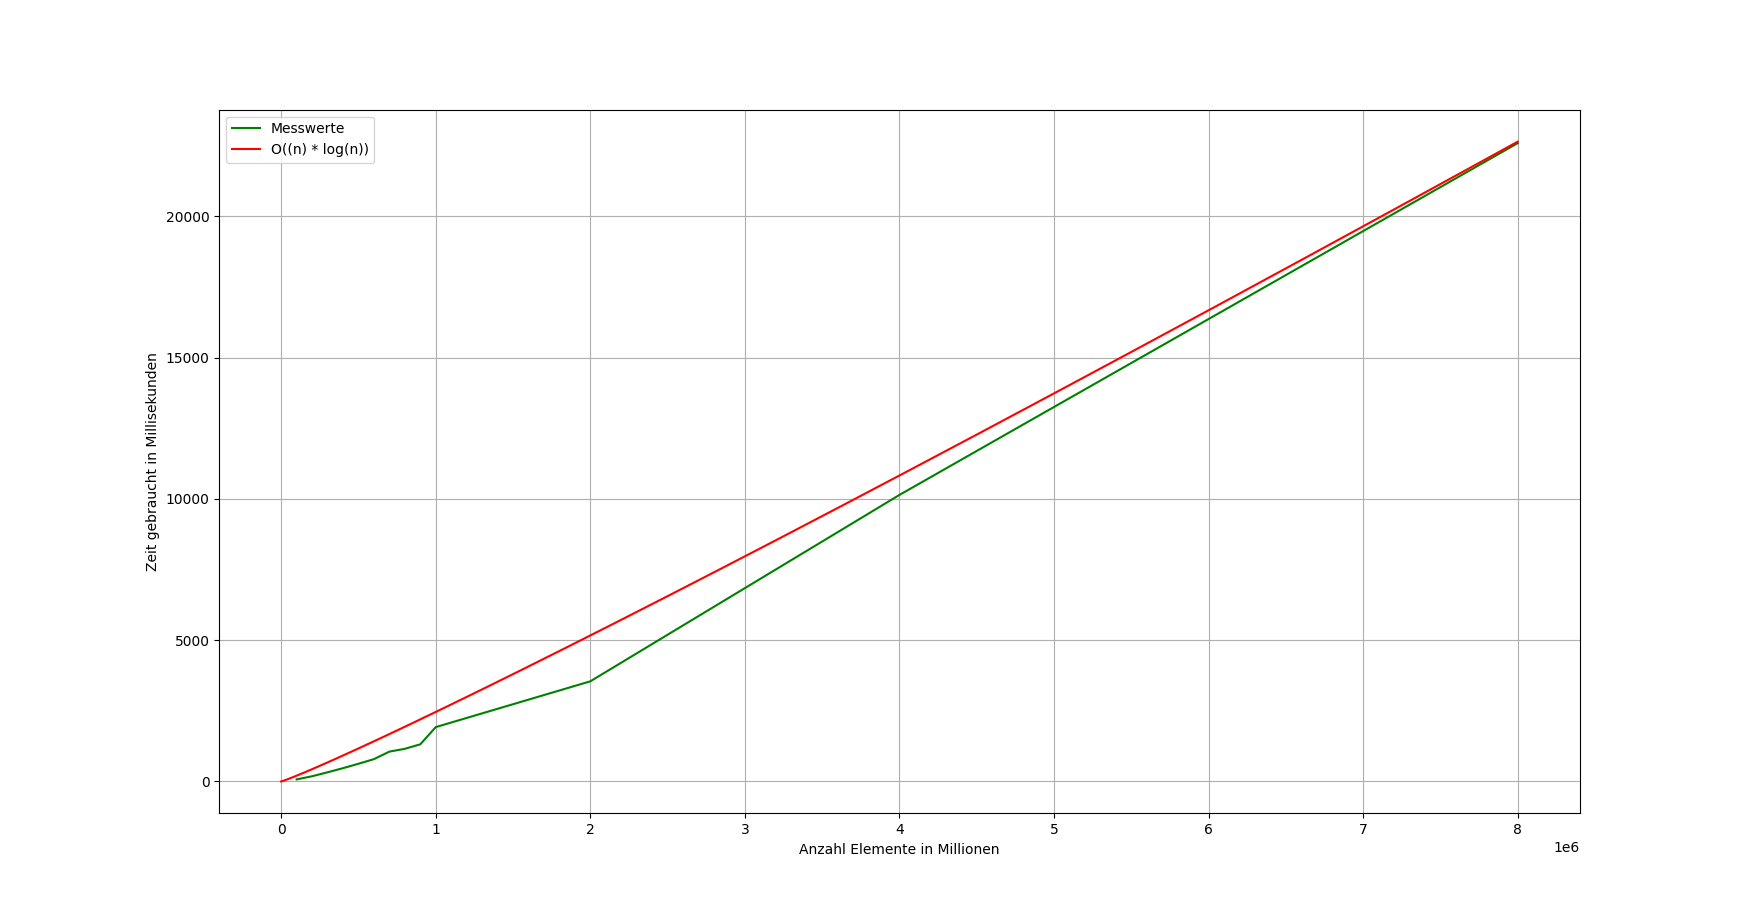
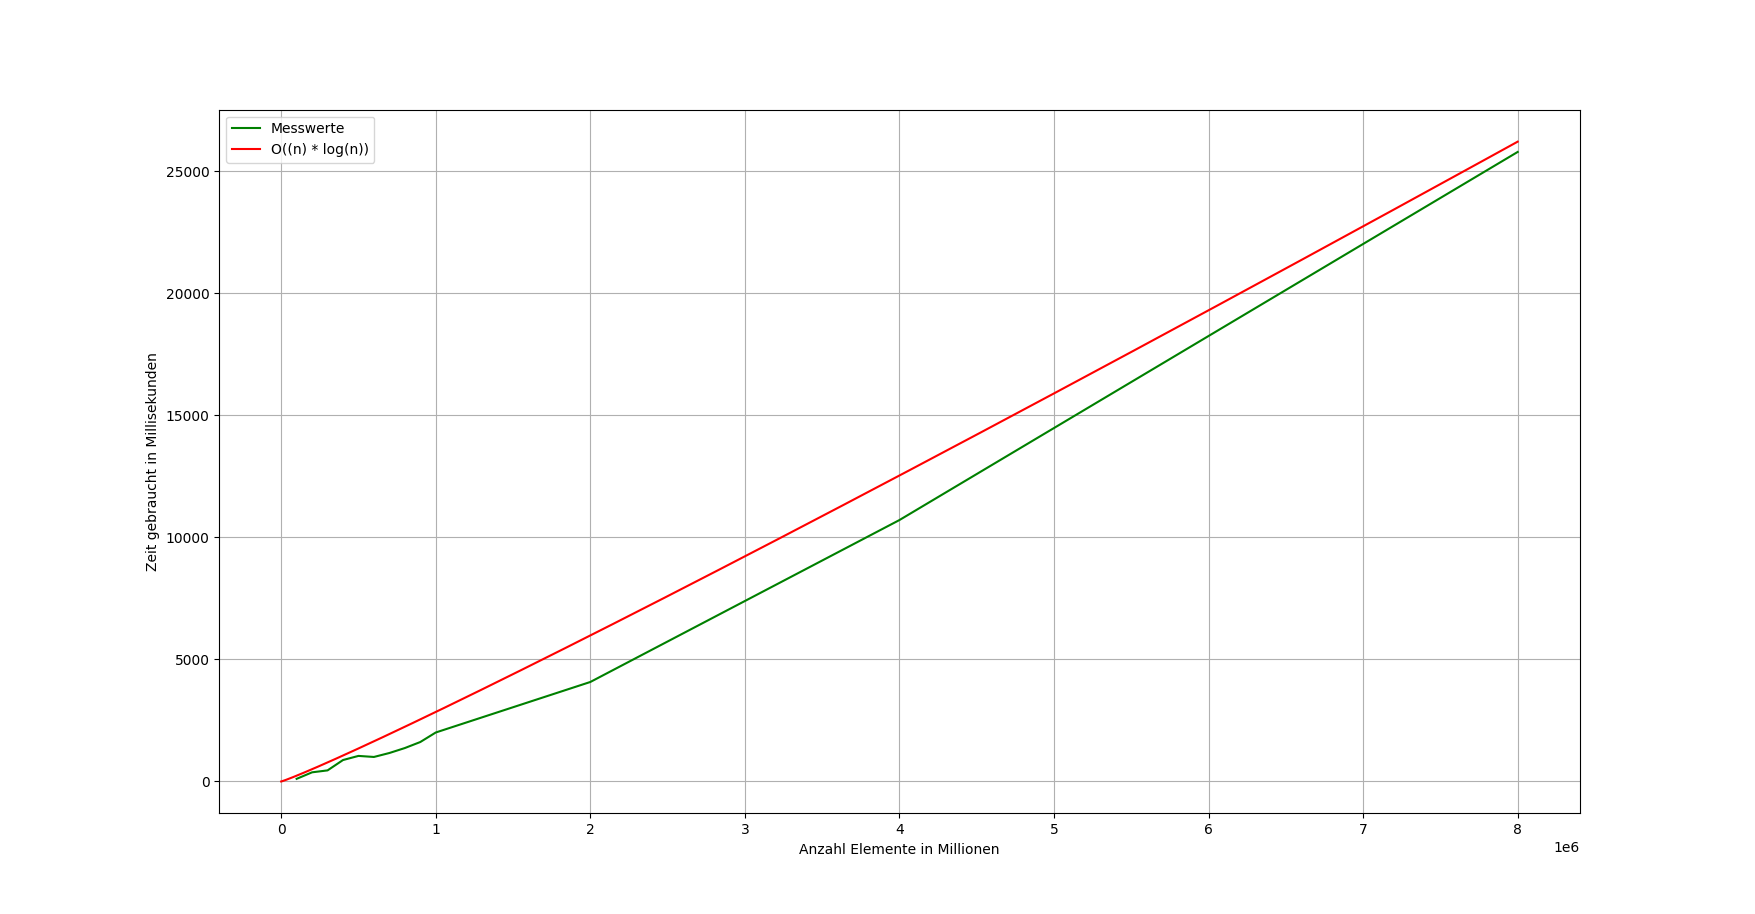
removed bug in randomGenerator

diff --git a/visualize.py b/visualize.py
@@ -7,7 +7,7 @@ if __name__ == "__main__":
     data = pd.read_csv('runtime.csv')
 
     plt.plot(data['size'], data['miliseconds'], '-g', label='Messwerte')
-    plt.plot([i for i in range(0, 8000000, 100)], [(i * np.log2(i))/8100 for i in range(0, 8000000, 100)], '-r', label='O((n) * log(n))')
+    plt.plot([i for i in range(0, 8000000, 100)], [(i * np.log2(i))/7000 for i in range(0, 8000000, 100)], '-r', label='O((n) * log(n))')
     plt.grid(True)
     plt.xlabel("Anzahl Elemente in Millionen")
     plt.ylabel("Zeit gebraucht in Millisekunden")

diff --git a/stringops.c b/stringops.c
@@ -25,16 +25,16 @@ char* generateRandomString(int length) {
 
     // allocate data
     char* temp;
-    temp = malloc(sizeof(char) * length + 1);
+    temp = malloc(sizeof(char) * (length + 1));
     const char* base = "abcdefghijklmnopqrstuvwxyz";
 
 
  
-    for (int i = 0; i < length - 1; ++i) {
+    for (int i = 0; i <= length; ++i) {
         srand(time(NULL) * rand() + rand() % 15);
         temp[i] = base[rand() % 26];
         }
-    temp[length-1] = '\0';
+    temp[length] = '\0';
 
     return temp;
 }

diff --git a/README.md b/README.md
@@ -14,5 +14,5 @@ Die Befehle der Makefile sind:
 - `make clean` um alle Objektdateien und das Programm zu löschen
 
 3. ### Einstufung der Laufzeit, Ergebnisse der Laufzeitermittlung
-Die Laufzeit des HeapSort beträgt `n * log2(n)` mit der ungefähren Konstanten c = 1:8100. 
+Die Laufzeit des HeapSort beträgt `n * log2(n)` mit der ungefähren Konstanten c = 7000^(-1). 
 ![File not Found](Messwerte.png)
